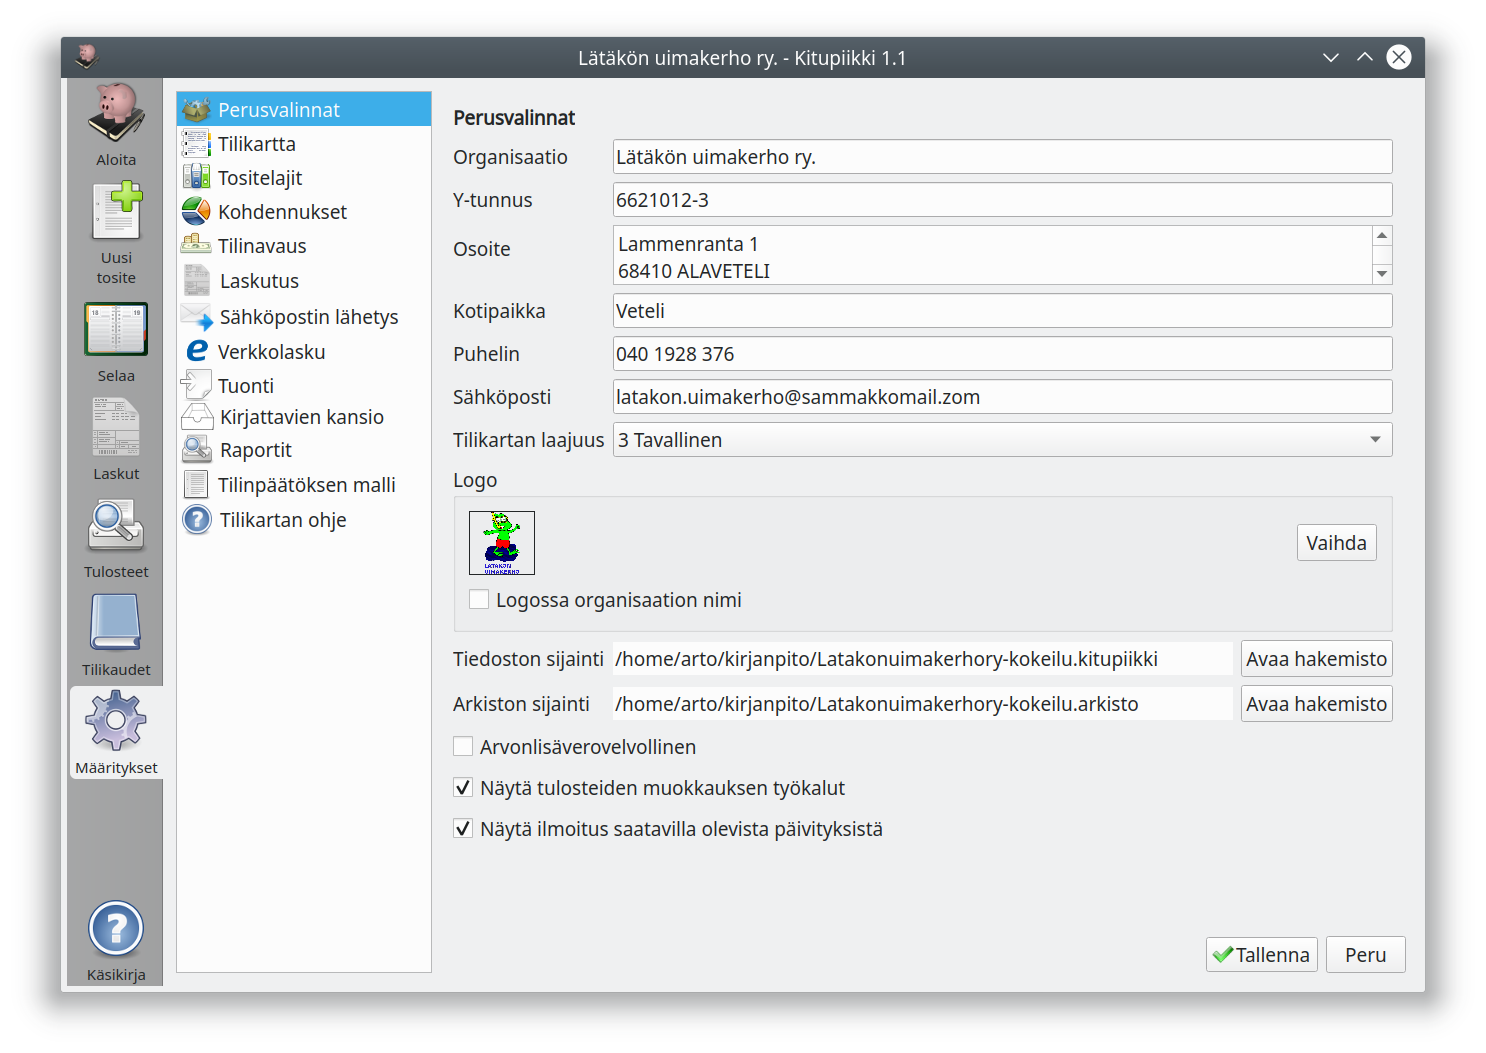
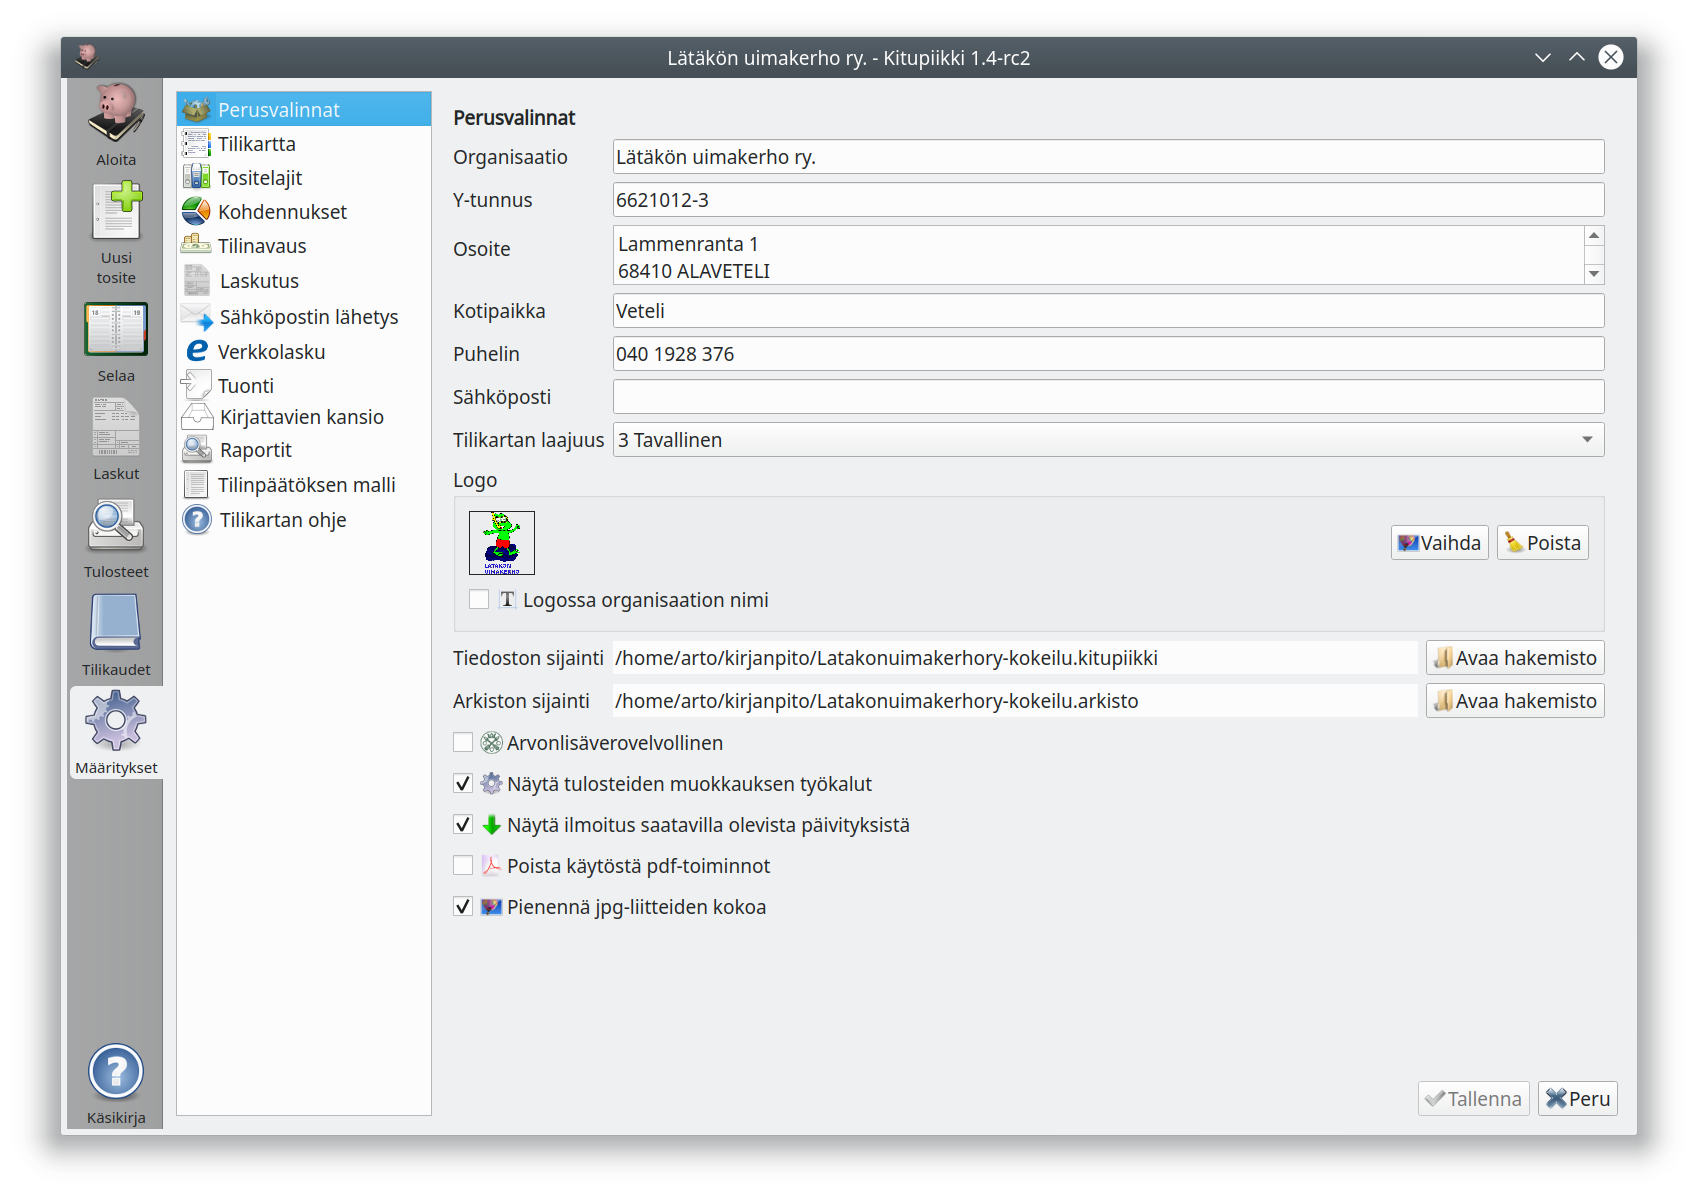
Deployed 1b7c8c04 with MkDocs version: 0.17.5

Changed region(s): [[0.031, 0.0304, 0.9906, 0.9725]]

diff --git a/laskutus/uusi/index.html b/laskutus/uusi/index.html
@@ -1021,7 +1021,7 @@
 <p><img alt="" src="./uusi.png" /></p>
 <p>Kitupiikki pyrkii täydentämään laskun saajan nimen ja osoitetiedot vanhojen laskujen perusteella.</p>
 <p>Valitse laskun <strong>kirjausperuste</strong> sen mukaan, mille päivämäärälle lasku kirjataan kirjanpitoon, katso <a href="../../kirjanpito/#kirjaamisperusteet">kirjaamisperusteet</a>. <strong>Maksuperusteinen lasku</strong> näkyy kirjanpidossa vasta, kun se on maksettu. <strong>Käteiskuitti</strong> laaditaan välittömästi käteisellä maksettaessa, jolloin tuloste toimii myös kuittina.</p>
-<p>Syötä laskutettavat tuotteet <strong>Rivit</strong>-välilehdelle. Samalla valitset, miten myyntilasku kohdennetaan kirjanpidossa. <strong>Arvonlisävero</strong> kirjataan oletuksena nettokirjauksena, bruttokirjauksen voit tehdä <strong>Muu alv</strong>-valinnasta avautuvalla ikkunalla.</p>
+<p>Syötä laskutettavat tuotteet <strong>Rivit</strong>-välilehdelle. Samalla valitset, miten myyntilasku kohdennetaan kirjanpidossa. <strong>Arvonlisävero</strong> kirjataan valinnan mukaisena nettokirjauksena.</p>
 <p><strong>Tuotteet</strong>-napilla avautuu tuoteluettelo. Kun olet syöttänyt riveille tuotteen, paina rivin päällä hiiren oikeaa nappia ja pääset valitsemaan <strong>Lisää tuoteluetteloon</strong>. Tuotteesta tallennetaan nimi, yksikkö, yksikköhinta, verotus, tili ja kohdennus. Luettelossa olevan tuotteen lisäät laskulle napsauttamalla sitä tuoteluettelossa. Tuotteen voi poistaa valitsemalla tuoteluettelossa tuotteen nimen päällä hiiren oikealla napilla avautuvasta valikosta <strong>Poista tuoteluettelosta</strong> tai tuotteen tiedot voi päivittää valitsemalla tuotteen rivin päällä hiiren oikealla napilla avautuvasta valikosta <strong>Päivitä tuoteluetteloon</strong>.</p>
 <p><strong>Lisätiedot</strong>-välilehdelle syötetty teksti tulostuu laskulle.</p>
 <p>Valmiin laskun voit <strong>tulostaa</strong>, voit avata pdf-tiedoston esikatseltavaksi <strong>näytä</strong>-valinnalla tai lähettää laskun suoraan <strong>sähköpostilla</strong>. <strong>Tallenna</strong>-valinnalla lasku tallentuu kirjanpitoon ja ikkuna sulkeutuu.</p>

diff --git a/aloitus/index.html b/aloitus/index.html
@@ -354,6 +354,13 @@
 </li>
       
         <li class="md-nav__item">
+  <a href="#tositteiden-numerointi" title="Tositteiden numerointi" class="md-nav__link">
+    Tositteiden numerointi
+  </a>
+  
+</li>
+      
+        <li class="md-nav__item">
   <a href="#tiedostojen-sijainti" title="Tiedostojen sijainti" class="md-nav__link">
     Tiedostojen sijainti
   </a>
@@ -1061,6 +1068,13 @@
 </li>
       
         <li class="md-nav__item">
+  <a href="#tositteiden-numerointi" title="Tositteiden numerointi" class="md-nav__link">
+    Tositteiden numerointi
+  </a>
+  
+</li>
+      
+        <li class="md-nav__item">
   <a href="#tiedostojen-sijainti" title="Tiedostojen sijainti" class="md-nav__link">
     Tiedostojen sijainti
   </a>
@@ -1172,6 +1186,18 @@ uusia kirjauksia, vaikka tilinavausta ei olisikaan tehty.</p>
 <p class="admonition-title">Suoriteperuste on ensisijainen</p>
 <p>Mikroyhdistyksiä ja -säätiöitä lukuun ottamatta kirjanpito on oikaistava tilinpäätöstä varten aina suoritusperusteiseksi.</p>
 </div>
+<h2 id="tositteiden-numerointi">Tositteiden numerointi<a class="headerlink" href="#tositteiden-numerointi" title="Permanent link">&para;</a></h2>
+<p><img alt="" src="./numerointi.png" /></p>
+<p>Kitupiikin tositteet on jaettu useampaan tositesarjaan. Valitse, haluatko</p>
+<ul>
+<li>
+<p>numeroida jokaisen tositelajin <strong>omaan numerosarjaansa</strong>.
+  Esimerkiksi: Myyntilaskut ML1, ML2; Ostolaskut OL1, OL2 ...</p>
+</li>
+<li>
+<p>numeroida tilikauden kaikki tositteet aikajärjestyksessä <strong>samaan numerosarjaan</strong> 1, 2, 3 ...</p>
+</li>
+</ul>
 <h2 id="tiedostojen-sijainti">Tiedostojen sijainti<a class="headerlink" href="#tiedostojen-sijainti" title="Permanent link">&para;</a></h2>
 <p><img alt="" src="./sijainti6.png" /></p>
 <p>Valitse tiedostonnimi ja sijainti, minne kirjanpito tallennetaan. Tähän tiedostoon tallennetaan koko kirjanpito kaikkine liitteineen niin, että kirjanpidon voi siirtää tai varmuuskopioida kopioimalla tämän yhden tiedoston.</p>

diff --git a/maaritykset/inbox/index.html b/maaritykset/inbox/index.html
@@ -942,10 +942,14 @@
                 
                 <h1 id="kirjattavien-kansio-11kitupiikin-versiosta-11-lahtien">Kirjattavien kansio  <span class=ver>1.1<span class=selite>Kitupiikin versiosta 1.1 lähtien</span></span><a class="headerlink" href="#kirjattavien-kansio-11kitupiikin-versiosta-11-lahtien" title="Permanent link">&para;</a></h1>
 <p><img alt="" src="./maaritys.png" /></p>
-<p>Toiminnalla määritellään tietokoneella oleva hakemisto, jonka sisältämät laskut (pdf- ja kuvatiedostot) näytetään ohjelman ikkunan oikeassa laidassa:</p>
+<p>Toiminnalla määritellään tietokoneella oleva hakemisto, jonka sisältämät laskut (pdf- ja kuvatiedostot) näytetään ohjelman ikkunan oikeassa laidassa. Kun kirjattavien kansiossa oleva tiedosto on liitetty laskuun ja lasku tallennetaan, niin valintasi mukaan tiedosto</p>
+<ul>
+<li><strong>poistetaan</strong> tietokoneelta, tai</li>
+<li><strong>siirretään</strong> valitsemaasi hakemistoon <span class=ver>1.4<span class=selite>Kitupiikin versiosta 1.4 lähtien</span></span></li>
+</ul>
 <p><img alt="" src="./kirjaus.png" /></p>
-<p>Tästä kirjattavien ikkunasta lasku on helppo siirtää raahaamalla kirjattavaksi. Kun kirjattavien kansiossa oleva tiedosto on liitetty laskuun ja lasku tallennetaan, <strong>poistetaan tiedosto automaattisesti tietokoneelta</strong>.</p>
-<p>Voit kirjata lista ensimmäisen tositteen myös <kbd>F8</kbd>-näppäimellä. <span class=ver>1.3<span class=selite>Kitupiikin versiosta 1.3 lähtien</span></span></p>
+<p>Kirjattavien ikkunasta lasku on helppo siirtää raahaamalla kirjattavaksi.</p>
+<p>Voit kirjata listan ensimmäisen tositteen myös <kbd>F8</kbd>-näppäimellä. <span class=ver>1.3<span class=selite>Kitupiikin versiosta 1.3 lähtien</span></span></p>
 <p>Määrittelemällä sama hakemisto skannausohjelmaan skannattavien tiedostojen tallennushakemistoksi ja Kitupiikkiin kirjattavien kansioksi saat käsiteltyä nopeammin paperilla saamasi tositteet.</p>
                 
                   

diff --git a/maaritykset/tositelajit/index.html b/maaritykset/tositelajit/index.html
@@ -942,8 +942,9 @@
                 
                 <h1 id="tositelajit">Tositelajit<a class="headerlink" href="#tositelajit" title="Permanent link">&para;</a></h1>
 <p><img alt="" src="./tositelajit.png" /></p>
-<p>Tositteet voi jakaa omiksi sarjoikseen eli tositelajeiksi, jotka numeroidaan erikseen. Kitupiikissä tositelajit tunnistetaan alussa olevasta yhden tai useamman kirjaimen tunnisteesta, esim. ML myyntilaskuille.</p>
+<p>Tositteet voi jakaa omiksi sarjoikseen eli tositelajeiksi. Kitupiikissä tositelajit tunnistetaan alussa olevasta yhden tai useamman kirjaimen tunnisteesta, esim. ML myyntilaskuille.</p>
 <p>Omia tositelajeja voi tehdä esimerkiksi ostolaskuille, myyntilaskuille, pankkitilin tiliotteille, muistiotositteille, käteistositteille jne.</p>
+<p>Valinnalla <strong>numeroi samaan sarjaan</strong> määritellään, että tilivuoden kaikki tositteet numeroidaan samaan juoksevaan sarjaan (esimerkiksi ML1, OL2, ML3, OL4 ...). Oletuksena jokainen tositelaji numeroidaan erikseen (esimerkiksi ML1, ML2, OL1, OL2 ...).</p>
 <p><img alt="" src="./muokkaus.png" /></p>
 <p>Tositelajille voi määritellä <strong>oletustilin</strong> eli tilin, mihin kirjauksen pääosin kohdistuvat (esimerkiksi myyntilaskuille 3001 Myynnit). <strong>Oletusvastatili</strong> määrittää oletuksena olevat tasetilin (yleensä pankkitili, käteistili, myyntisaamistili tai ostovelkatili).</p>
 <div class="admonition tip">

diff --git a/esittely/index.html b/esittely/index.html
@@ -1095,7 +1095,7 @@
 <p><img alt="" src="../maaritykset/tilikartta/tilikartta1.png" /></p>
 <p>Voit muokata tilikartat ja raportit mieleisiksesi. Muokatun tilikartan voit tallentaa ja ottaa käyttöön toisessa kirjanpidossa. Raportit saa tallennettua myös pdf-, html- ja csv-muotoon.</p>
 <h2 id="arvonlisaveron-kasittely-ohjaustiedoilla">Arvonlisäveron käsittely ohjaustiedoilla<a class="headerlink" href="#arvonlisaveron-kasittely-ohjaustiedoilla" title="Permanent link">&para;</a></h2>
-<p><img alt="" src="../alv/alvvalinta.png" /></p>
+<p><img alt="" src="../alv/mallikirjaukset/alvvalinta.png" /></p>
 <p>Tilejä ei tarvitse eritellä verokannoittain, koska arvonlisävero määritetään viennin tietoihin.  Kitupiikki tukee kaikkia alv-ilmoituksen verotyyppejä, myös maksuperusteisesti tilitettävää arvonlisäveroa. Alv-kauden päätyttyä saat Kitupiikistä suoraan alv-ilmoitukseen tarvittavat tiedot.</p>
 <h2 id="avoimen-lahdekoodin-kirjanpitaja">Avoimen lähdekoodin kirjanpitäjä<a class="headerlink" href="#avoimen-lahdekoodin-kirjanpitaja" title="Permanent link">&para;</a></h2>
 <p>Kitupiikin lähdekoodi on julkisesti saatavilla osoitteessa <a href="https://github.com/artoh/kitupiikki">https://github.com/artoh/kitupiikki</a>. Ohjelmaa saa käyttää, kopioida, muokata ja levittää ilman maksua, katso <a href="../lisenssi">lisenssi</a>.</p>

diff --git a/maaritykset/perusvalinnat/index.html b/maaritykset/perusvalinnat/index.html
@@ -957,6 +957,7 @@ Tätä varten Kitupiikki ottaa internet-yhteyden palvelimelle.</p>
 <p>Päivitystä tarkastettaessa Kitupiikin verkkosivu <a href="http://kitupiikki.arkku.net//tilasto">tilastoi</a> anonyymin tiedon ohjelman versiosta sekä tietokoneen käyttöjärjestelmästä ja käytössä olevan tilikartan tyypistä.</p>
 </div>
 <p><strong>Poista käytöstä pdf-toiminnot</strong> poistaa Kitupiikin sisäänrakennetun pdf-esikatselun sekä tiedon tuomisen pdf-tositteista. Käytä ainoastaan, jos pdf-tiedostojen käsittely aiheuttaa ongelmia.</p>
+<p><strong>Pienennä jpg-liitteiden kokoa</strong> muokkaa kirjanpitoon liitteinä lisättäviä jpg-muotoisia kuvatiedostoja niin, että ne vievät vähemmän tallennustilaa (liitteet muutetaan mustavalkoisiksi ja kuvan kokoa pienennetään).</p>
                 
                   
                 
